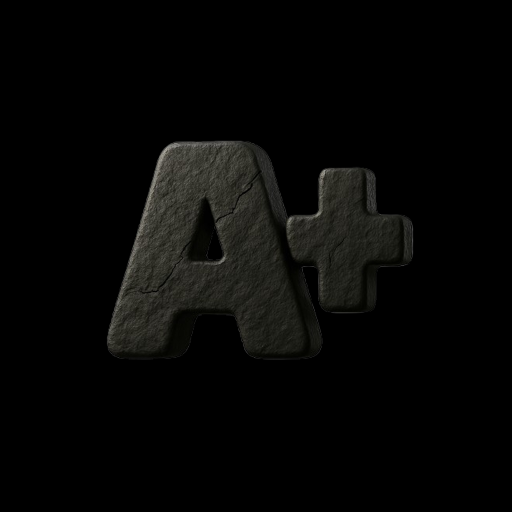
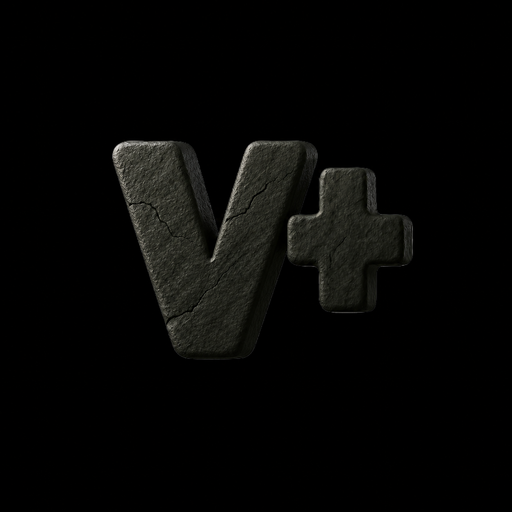
chore: sync plugin 1.1.5 from source of truth

Changed region(s): [[0.1875, 0.25, 0.6562, 0.6875]]

diff --git a/README.md b/README.md
@@ -22,6 +22,10 @@ that tell it how to find, quote and learn from the videos.
 - "What are this creator's best-performing videos?"
 - "Turn my team's saved videos into a UGC brief."
 
+The server also offers four ready-made prompts: viral videos in my niche, swipe
+a creator, hooks for my product or account, and map a niche's formats. In
+Claude, open a chat's + menu and pick Viral Swipe File.
+
 ## What is in here
 
 | Path | |
@@ -74,8 +78,9 @@ read-only: it cannot save, remove or post anything.
 
 The plugin talks to one server, `viralswipefile.com`. When your assistant
 calls a tool, the tool's arguments, such as a niche, a format or a search
-term, are sent to that server. Viral Swipe File counts each call against your
-team's usage, with the AI client's name, and records it in its product
+term, are sent to that server. Viral Swipe File counts each call (except
+`list_niches` and `list_formats`) against your team's usage, with the AI
+client's name, and records every call in its product
 analytics (PostHog): the tool name, its arguments, timing, errors, your
 account identifier and the AI client's name and version. It does not record
 what the tool returned. Nothing else from your conversation or your machine is

diff --git a/skills/find-viral-videos/SKILL.md b/skills/find-viral-videos/SKILL.md
@@ -14,7 +14,8 @@ Explicit user instructions take priority over this workflow.
 exact niche or format:
 
 - call `search_library` with the user's words, or
-- call `list_niches` / `list_formats` and pick the closest match.
+- call `list_niches` / `list_formats` and pick the closest match. They do
+  not count toward the team's daily questions, so use them freely.
 
 If two niches fit, say which one you used. If nothing fits, say so and use
 `search` (free text over hook, caption, niche, formats and creator) instead
@@ -58,6 +59,9 @@ Then:
 - If a result has no `hook` and carries a `notice`, pass the notice on as
   given, without adding to it, when the user wants hooks.
 - A missing figure is unavailable, not zero.
+- If a call answers with a message instead of results, saying the team has
+  used today's questions, pass it on as given, with when the count starts
+  again, and do not retry before then. It is not an error to work around.
 
 ## 4. Stop at the edge of the data
 

diff --git a/skills/get-started/SKILL.md b/skills/get-started/SKILL.md
@@ -10,9 +10,10 @@ Explicit user instructions take priority over this guidance.
 
 ## Choose the requested path
 
-- For "set up", "get started" or "is it connected", call `list_niches` once.
-  If it returns niches, the connection works: say so and name a few niches
-  from the result. Do not list them all.
+- For "set up", "get started" or "is it connected", call `list_niches` once
+  (it does not count toward the team's daily questions). If it returns
+  niches, the connection works: say so and name a few niches from the
+  result. Do not list them all.
 - If tools are unavailable or authentication fails, say the connection is not
   verified and tell the user to connect or reconnect Viral Swipe File in their
   app, signing in with their Viral Swipe File account. Do not claim the plugin
